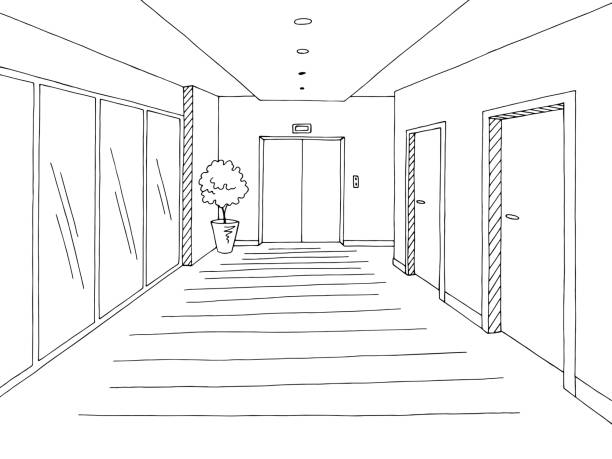
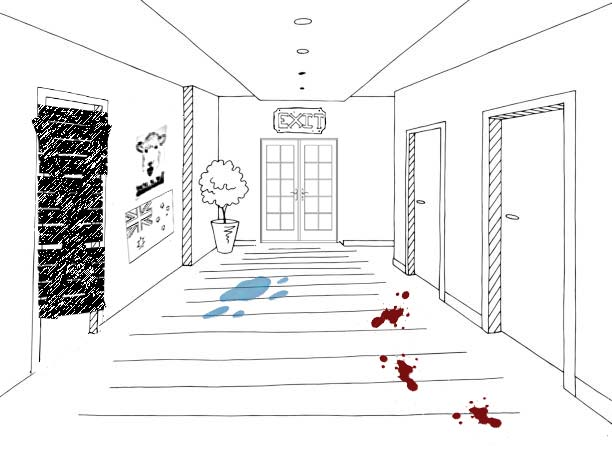
improve clues

diff --git a/sketch.js b/sketch.js
@@ -31,7 +31,8 @@ function preload(){
     finishPuzzle= loadImage('Images/Solved box.jpg');
     emptyBox= loadImage('Images/open box.jpg');
 
-    room2= loadImage('Images/new hallway.jpg');
+    room2= loadImage('Images/better hallway.jpg');
+    axePhoto= loadImage('Images/axe on table.jpg');
 }
 
 function setup() {
@@ -51,6 +52,7 @@ function setup() {
     finishPuzzle.loadPixels();
     room2.loadPixels();
     emptyBox.loadPixels();
+    axePhoto.loadPixels();
 }
 
 function draw() {
